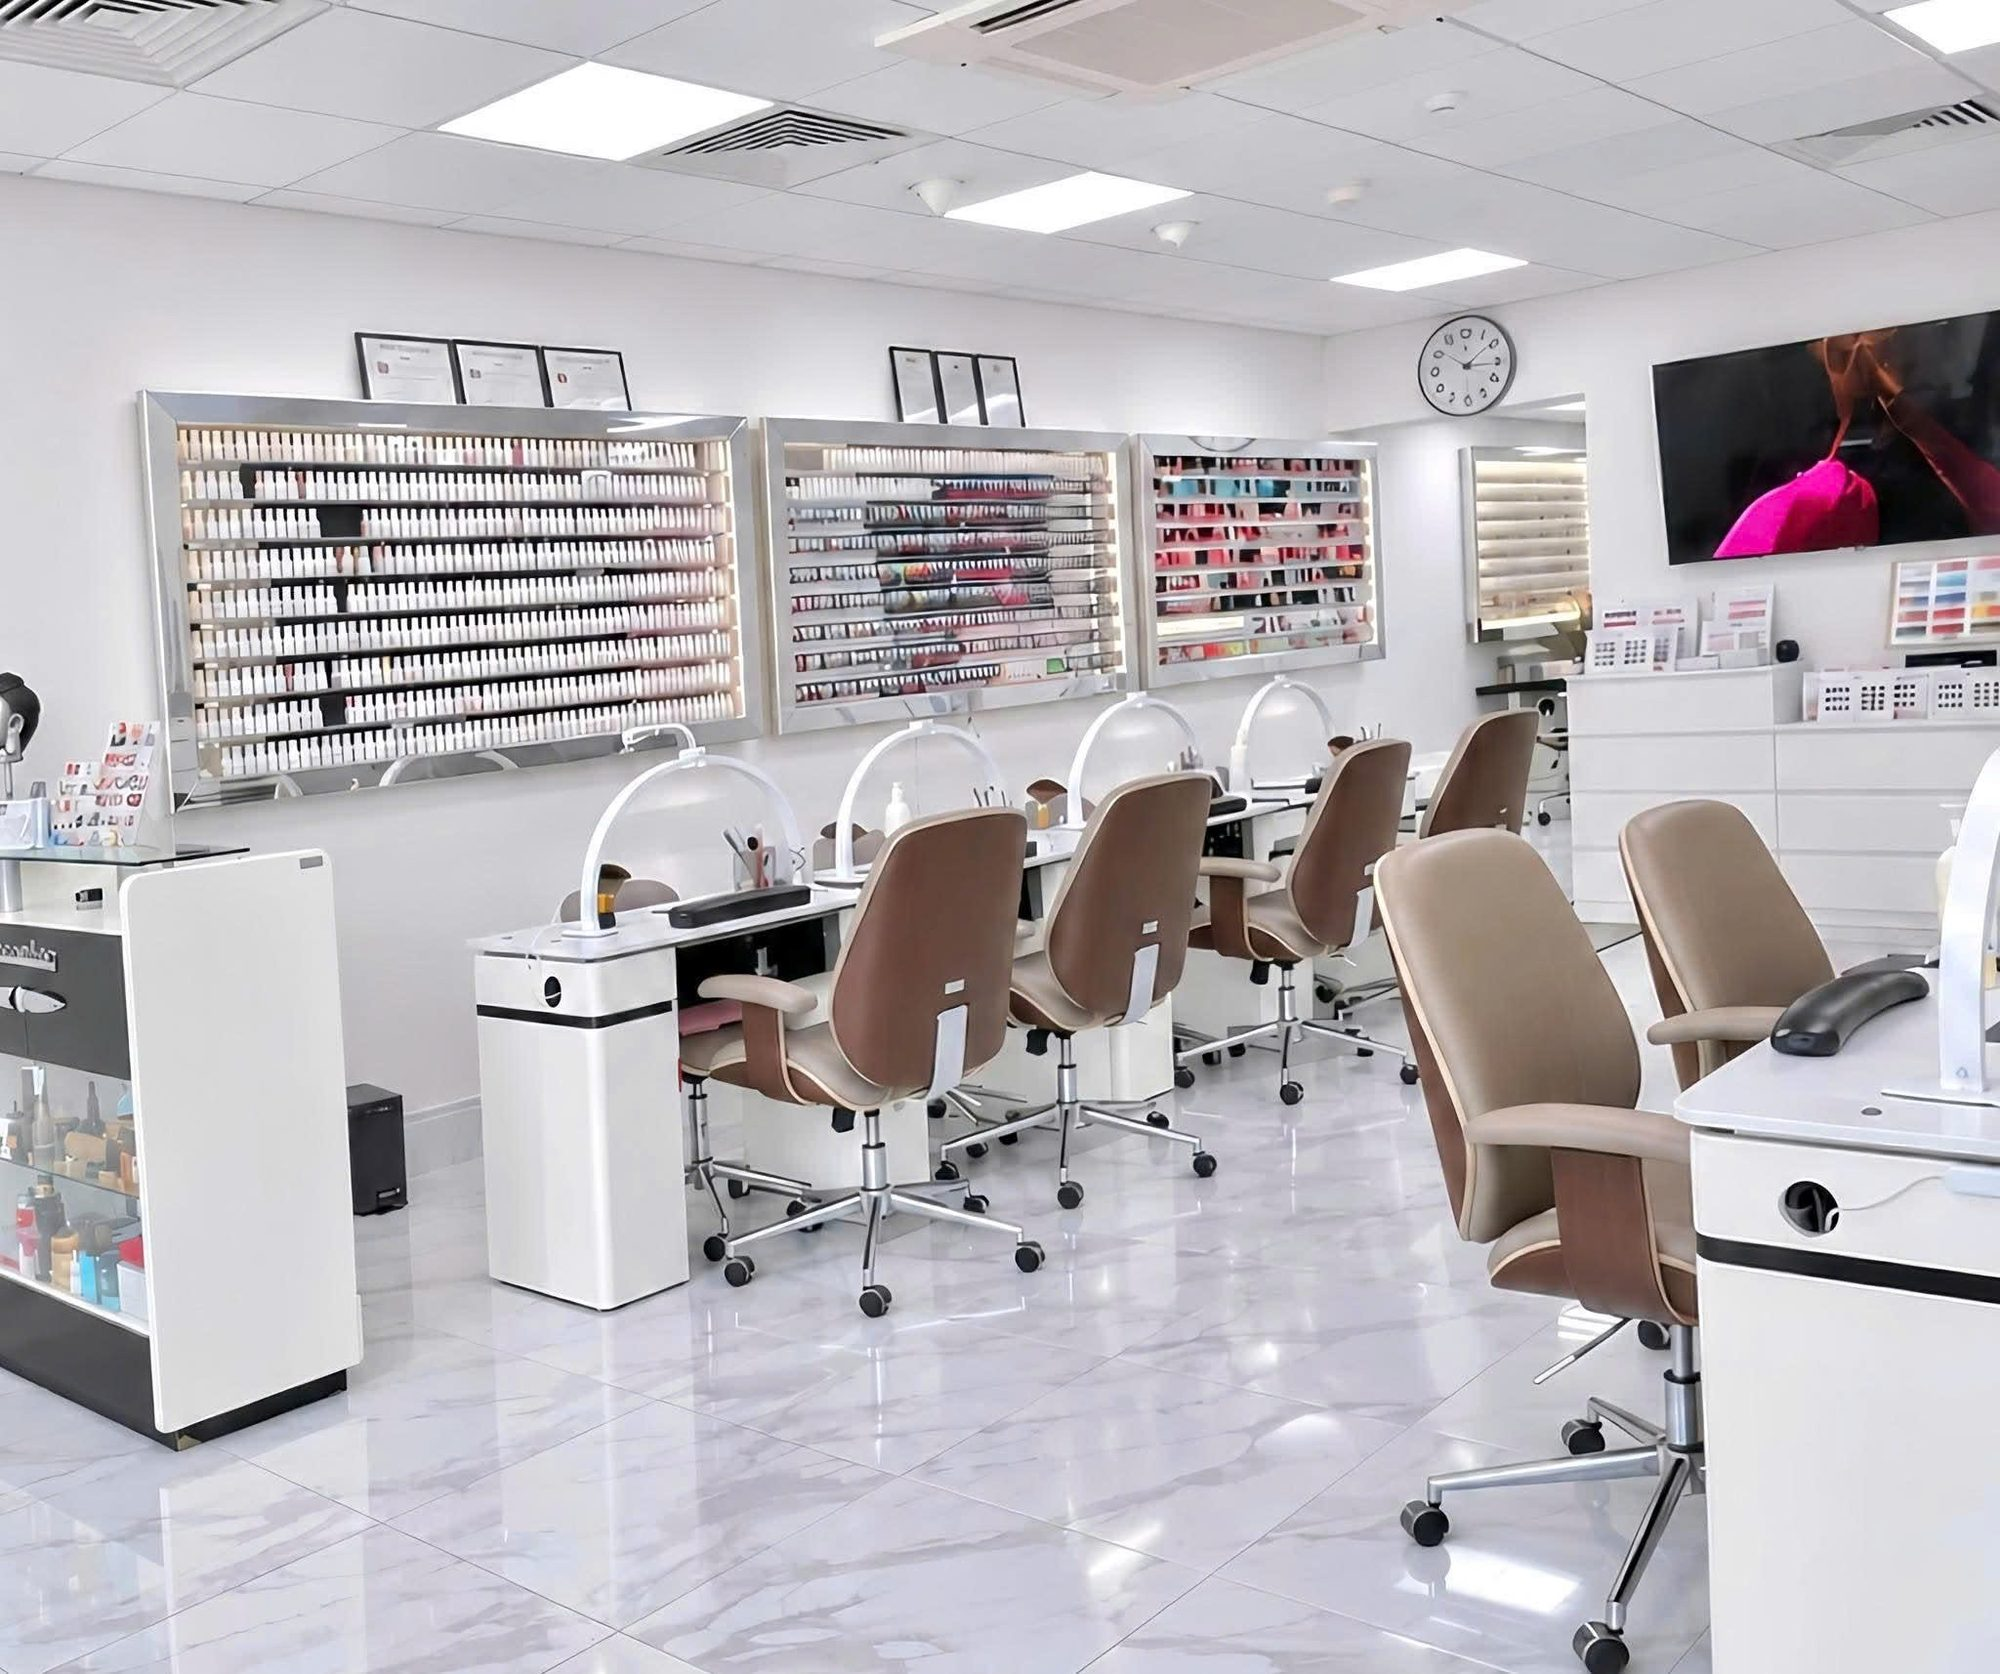
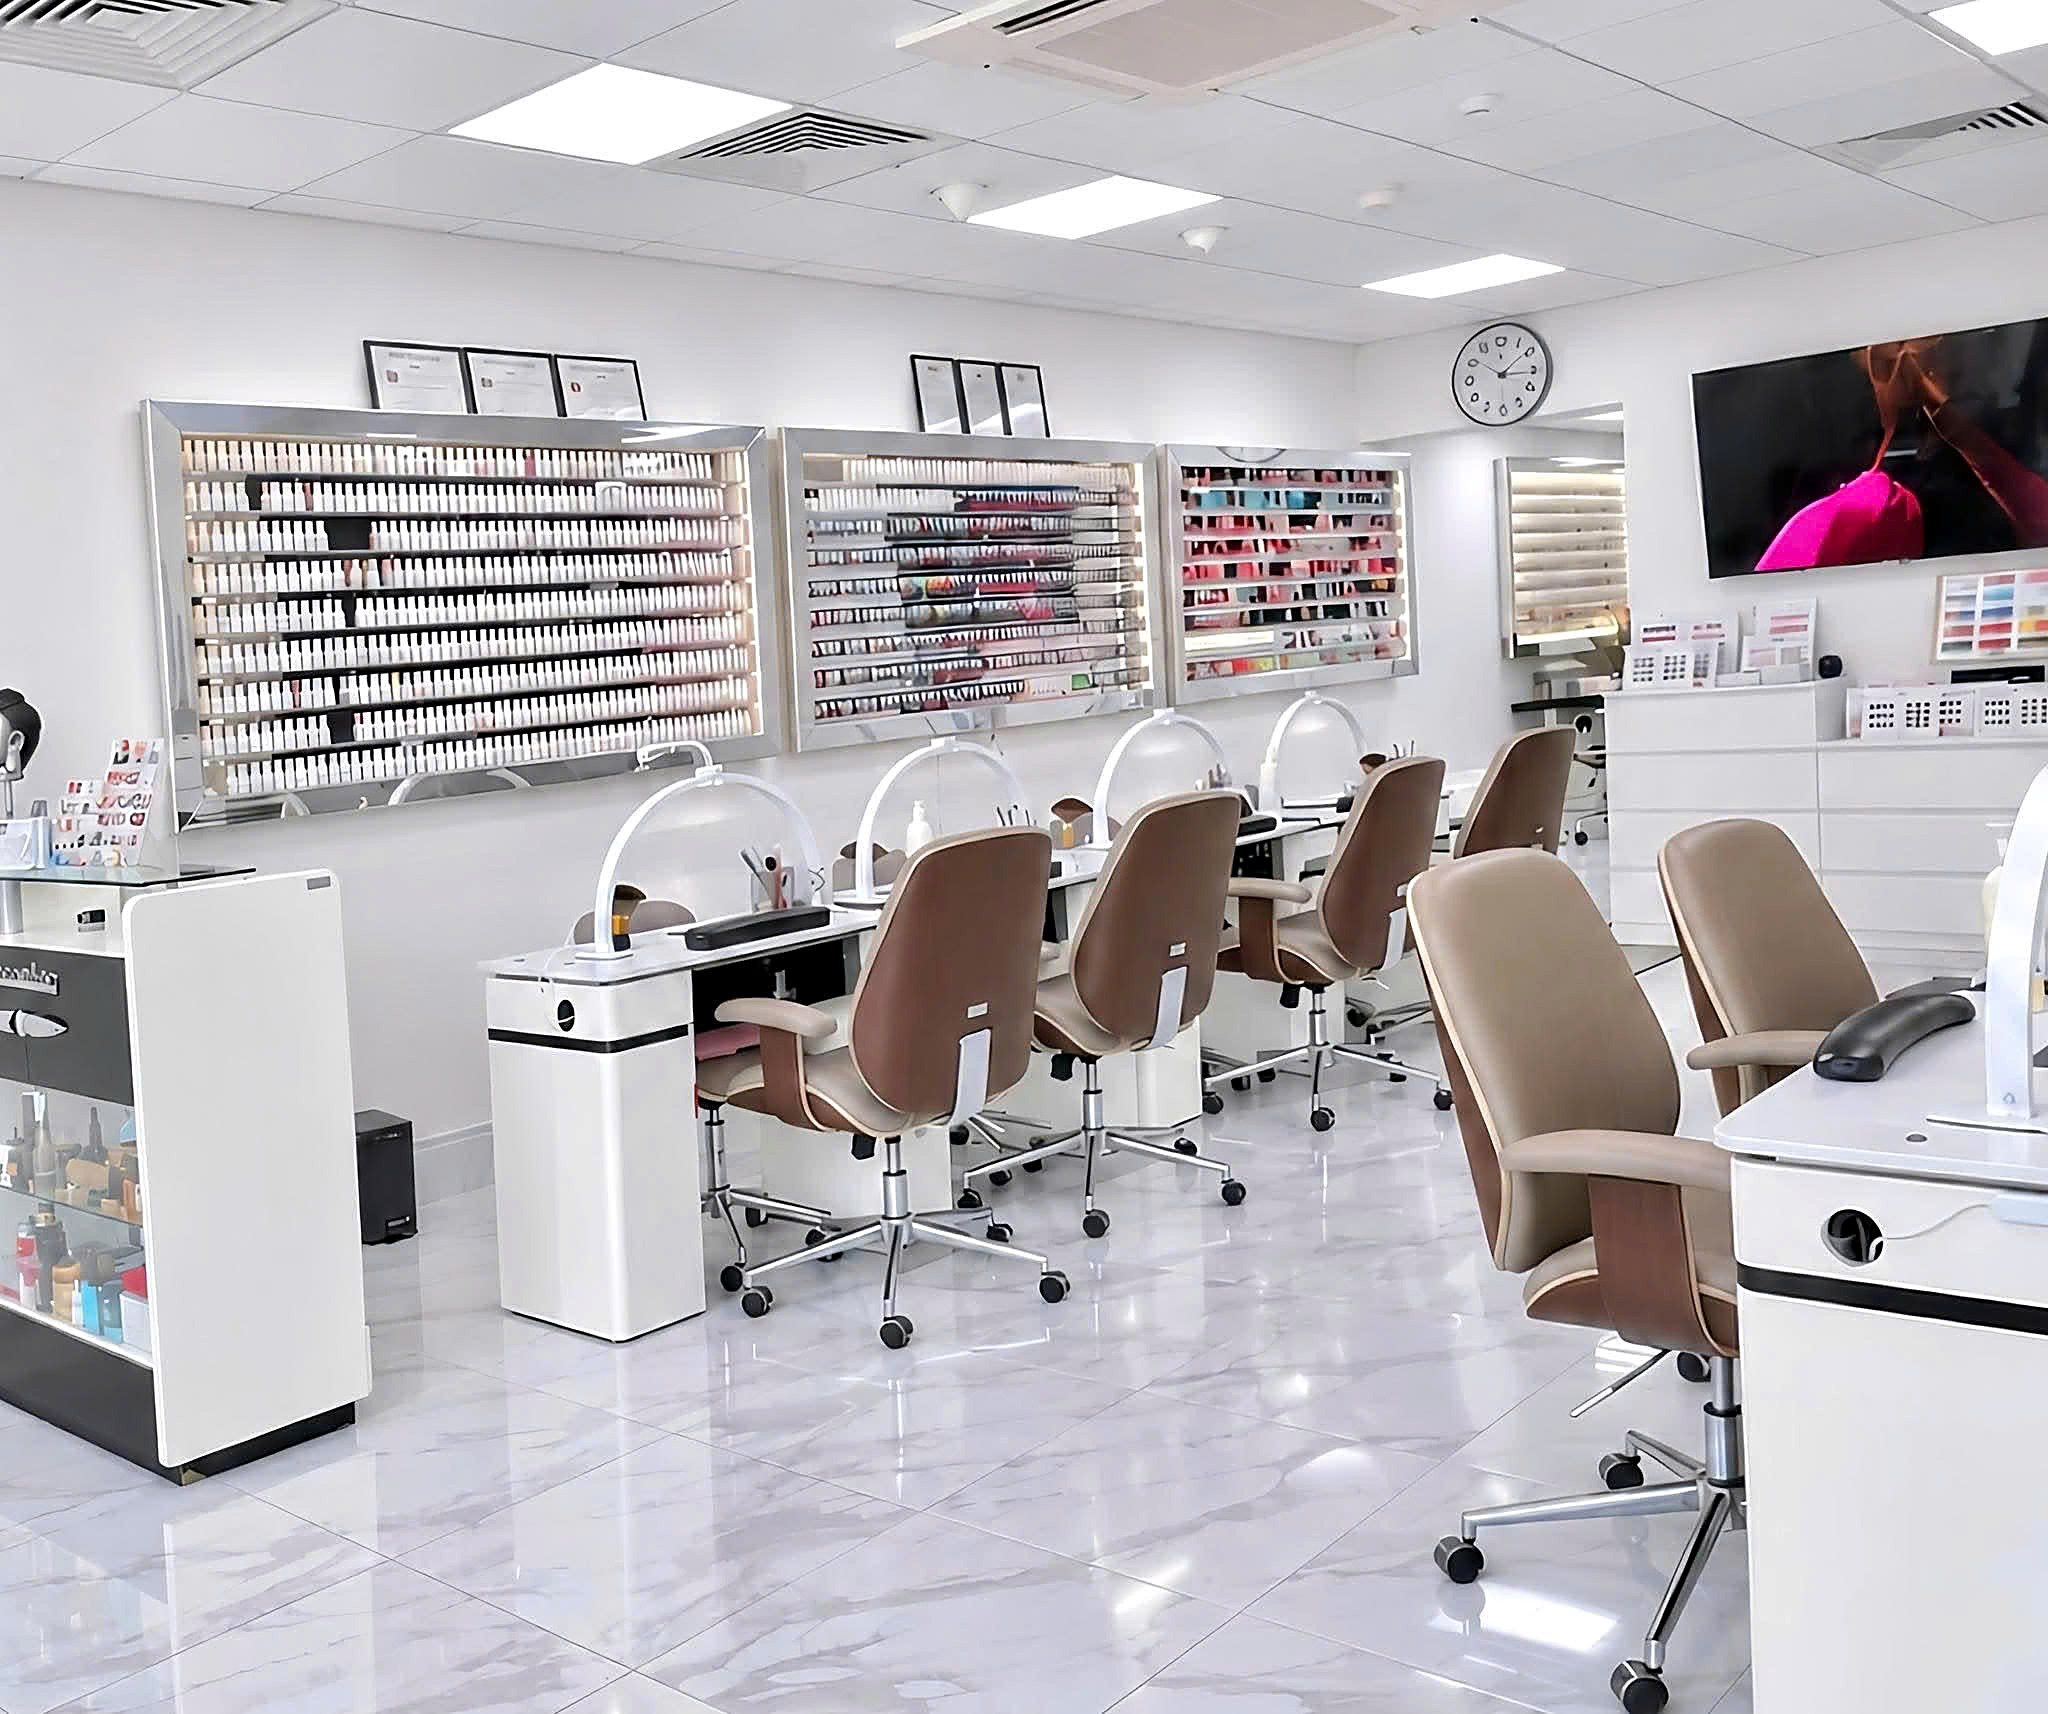
Polish salon hero photography and publish current site updates

Changed region(s): [[0.434, 0.3417, 0.496, 0.4038], [0.372, 0.0621, 0.434, 0.0932], [0.465, 0.2796, 0.496, 0.3106]]

diff --git a/css/styles.css b/css/styles.css
@@ -234,7 +234,7 @@ body.menu-open { overflow: hidden; }
 
 /* ---------- Hero ---------- */
 
-.hero { padding: 0 var(--gutter); }
+.hero { padding: 0; }
 .hero__frame {
   position: relative;
   isolation: isolate;
@@ -242,29 +242,40 @@ body.menu-open { overflow: hidden; }
   min-height: 30rem;
   height: 72svh;
   max-height: 46rem;
-  display: grid; place-items: center;
+  display: grid; place-items: end center;
   background: var(--charcoal);
-  box-shadow: 0 18px 40px -24px rgba(17, 17, 17, .45);
 }
 .hero__img {
   position: absolute; inset: 0; z-index: -2;
-  width: 100%; height: 100%; object-fit: cover;
+  width: 100%; height: 100%; object-fit: cover; object-position: 48% center;
 }
+/* Photo stays clear; only a soft fade along the bottom, behind the title */
 .hero__frame::after {
   content: ""; position: absolute; inset: 0; z-index: -1;
-  background: radial-gradient(ellipse 65% 60% at 50% 50%, rgba(17,17,17,.78) 0%, rgba(17,17,17,.55) 100%);
+  background: linear-gradient(to bottom, transparent 30%, rgba(32,24,18,.12) 48%, rgba(32,24,18,.64) 76%, rgba(32,24,18,.82) 100%);
 }
-/* Neoclassical double frame */
-.hero__frame::before {
-  content: ""; position: absolute; inset: 14px; z-index: 1; pointer-events: none;
-  border: 1px solid var(--gold-hair);
-  outline: 1px solid rgba(195, 166, 106, .3); outline-offset: -7px;
+.hero__eyebrow {
+  margin-bottom: 1rem;
+  font-size: .6875rem; font-weight: 500; letter-spacing: .28em;
+  color: var(--gold-soft);
 }
-.hero__content { text-align: center; color: var(--ivory); padding: 2rem var(--gutter); }
-.hero__logo { width: min(17rem, 68vw); margin: 0 auto; }
-.rule {
-  display: block; width: 4.5rem; height: 1px; margin: 1.5rem auto 1.75rem;
-  background: var(--gold);
+.hero__eyebrow span { margin-inline: .6rem; }
+.hero__content {
+  text-align: center; color: var(--ivory);
+  padding: 2rem var(--gutter) clamp(2.5rem, 5vw, 4rem);
+  animation: hero-arrive .9s var(--ease) both;
+}
+.hero .pill {
+  background: var(--ivory); color: var(--ink); border-color: var(--ivory);
+  backdrop-filter: none; font-size: .75rem; letter-spacing: .14em;
+  transition: background-color .25s var(--ease), border-color .25s var(--ease);
+}
+.hero .pill:hover { background: var(--gold-soft); border-color: var(--gold-soft); }
+.hero .pill__icon { background: var(--ink); color: var(--ivory); transition: transform .25s var(--ease); }
+.hero .pill:hover .pill__icon { transform: translateX(2px); }
+@keyframes hero-arrive {
+  from { opacity: 0; transform: translateY(16px); }
+  to { opacity: 1; transform: translateY(0); }
 }
 .hero__title {
   font-family: var(--serif);
@@ -273,7 +284,7 @@ body.menu-open { overflow: hidden; }
   line-height: 1.02;
   letter-spacing: -.01em;
   margin-bottom: 2rem;
-  text-shadow: 0 2px 24px rgba(0, 0, 0, .25);
+  text-shadow: 0 2px 16px rgba(32, 24, 18, .2);
 }
 
 /* ---------- Sections ---------- */

diff --git a/services.html b/services.html
@@ -116,7 +116,7 @@
             <ul class="menu-items" role="list">
               <li><span class="menu-items__name">Pedicure with Shellac</span><span class="menu-items__time">50 mins</span><span class="menu-items__price">£43</span></li>
               <li><span class="menu-items__name">Shellac removal &amp; pedicure with regular polish</span><span class="menu-items__time">45 mins</span><span class="menu-items__price">£39</span></li>
-              <li><span class="menu-items__name">Manicure with Shellac</span><span class="menu-items__time">29 mins</span><span class="menu-items__price">£35</span></li>
+              <li><span class="menu-items__name">Manicure with Shellac</span><span class="menu-items__time">35 mins</span><span class="menu-items__price">£35</span></li>
               <li><span class="menu-items__name">Pedicure with regular polish</span><span class="menu-items__time">45 mins</span><span class="menu-items__price">£33</span></li>
               <li><span class="menu-items__name">Manicure with regular polish</span><span class="menu-items__time">25 mins</span><span class="menu-items__price">£22</span></li>
             </ul>
@@ -206,7 +206,7 @@
             </ul>
           </details>
           <details class="menu-cat" id="prices-extras">
-            <summary><span class="menu-cat__title">Nail Art &amp; Extras</span><span class="menu-cat__from">From £3</span></summary>
+            <summary><span class="menu-cat__title">Nail Art &amp; Extras</span></summary>
             <p class="menu-cat__intro">Finishing touches.</p>
             <ul class="menu-items" role="list">
               <li><span class="menu-items__name">Nail art</span><span class="menu-items__time">20 mins</span><span class="menu-items__price">from £10</span></li>

diff --git a/index.html b/index.html
@@ -128,10 +128,9 @@
     <!-- HERO -->
     <section class="hero" id="top" aria-labelledby="hero-title">
       <div class="hero__frame">
-        <img class="hero__img" src="assets/images/hero.jpg" alt="Inside YORK NAILS: manicure stations, wood-and-leather chairs and walls of polish colours" width="2000" height="1674" fetchpriority="high">
+        <img class="hero__img" src="assets/images/hero-premium.webp" srcset="assets/images/hero-premium-mobile.webp 960w, assets/images/hero-premium.webp 1672w" sizes="100vw" alt="Inside YORK NAILS: manicure stations, wood-and-leather chairs and walls of polish colours" width="1672" height="941" fetchpriority="high">
         <div class="hero__content">
-          <img class="hero__logo" src="assets/logo/york-nails-logo-on-dark.svg" alt="YORK NAILS" width="420" height="164">
-          <span class="rule" aria-hidden="true"></span>
+          <p class="hero__eyebrow">YORK NAILS <span aria-hidden="true">&middot;</span> BANSTEAD</p>
           <h1 class="hero__title" id="hero-title">Beautiful nails,<br><em>beautifully done.</em></h1>
           <a class="pill" href="https://appbooking.vdit.co.uk/Beauty/FindDateTime?cid=20211122100723206319" target="_blank" rel="noopener">
             Book your appointment

diff --git a/js/main.js b/js/main.js
@@ -75,6 +75,19 @@
   var firstCat = document.querySelector('.menu-cat');
   if (firstCat && window.matchMedia('(min-width: 48em)').matches) firstCat.open = true;
 
+  // ----- Call links inside an embed (e.g. a Webcake iframe) -----
+  // Browsers block tel: links that navigate inside an iframe, so hand the
+  // call to the top window, or a new window if the embed doesn't allow that.
+  if (window.self !== window.top) {
+    document.querySelectorAll('a[href^="tel:"]').forEach(function (link) {
+      link.addEventListener('click', function (e) {
+        e.preventDefault();
+        try { window.top.location.href = link.href; }
+        catch (err) { window.open(link.href, '_blank'); }
+      });
+    });
+  }
+
   // ----- Today's opening hours (UK time) -----
   // Mon–Sat 9am–7pm, Sun 10am–5pm
   var today = document.querySelector('[data-today]');

diff --git a/assets/images/hero-premium-prompt.md b/assets/images/hero-premium-prompt.md
@@ -1,0 +1,9 @@
+# Hero photo retouch
+
+Tool: built-in ImageGen, edit mode.
+Input: hero.jpg (salon's own photograph).
+Master output: hero-premium.png, 1672 × 941. WebP exports serve desktop and mobile. No artificial 4K upscale.
+
+## Final prompt
+
+Use case: lighting-weather / photographic restoration. Edit target: the supplied real YORK NAILS salon photograph. Create a high resolution premium architectural photograph for this salon's website hero. Preserve the actual room, furniture, brown leather chairs, white manicure stations, curved white desk lamps, polish shelves, ceiling and floor, and all spatial relationships faithfully. Restore fine detail and reduce JPEG artifacts, natural crisp edges and realistic textures, no halos or oversharpening. Correct the tilted camera gently, professional balanced exposure with soft warm ivory daylight and subtle champagne warmth, clean whites, rich warm brown leather, polished yet believable. Keep the real premises recognisable. Do not redesign the salon, add furniture, plants, chandeliers or ornament. Neutralize the distracting bright magenta television picture to a dark unlit screen. Wide landscape framing approximately 16:9, prioritize manicure chairs and shelves and reduce excess ceiling, leave room at lower center for HTML headline overlay. Output only the photograph, no text, logos, borders, UI, watermark. Highest available resolution, ideally 3840px wide.

diff --git a/assets/images/CREDITS.md b/assets/images/CREDITS.md
@@ -5,7 +5,8 @@ https://www.pexels.com/license/ — replace with the salon's own photos when ava
 
 | File | Source | Description |
 |---|---|---|
-| hero.jpg | Salon's own photo (resized from `ảnh đầu trang.jpg`) | Interior of YORK NAILS, Banstead. |
+| hero-premium.png / hero-premium.webp / hero-premium-mobile.webp | AI-retouched from the salon's own hero.jpg using built-in ImageGen | Warm architectural treatment, restored detail, corrected perspective, TV screen darkened. AI may reconstruct small details. Original hero.jpg retained. See hero-premium-prompt.md. |
+| hero.jpg | Salon's own photo (full-size re-export of `ảnh đầu trang.jpg`, lightly sharpened) | Interior of YORK NAILS, Banstead. |
 | service-manicure-pedicure.jpg | https://www.pexels.com/photo/4677845/ | Close-up of a manicurist applying nail polish during a professional manicure session. |
 | service-biab-shellac.jpg | https://www.pexels.com/photo/3997382/ | Close-up of a professional manicure session using gel polish with red nails. |
 | service-extensions.jpg | https://www.pexels.com/photo/34997574/ | Close-up of a hand with French manicure and gold rings on blue background. |
